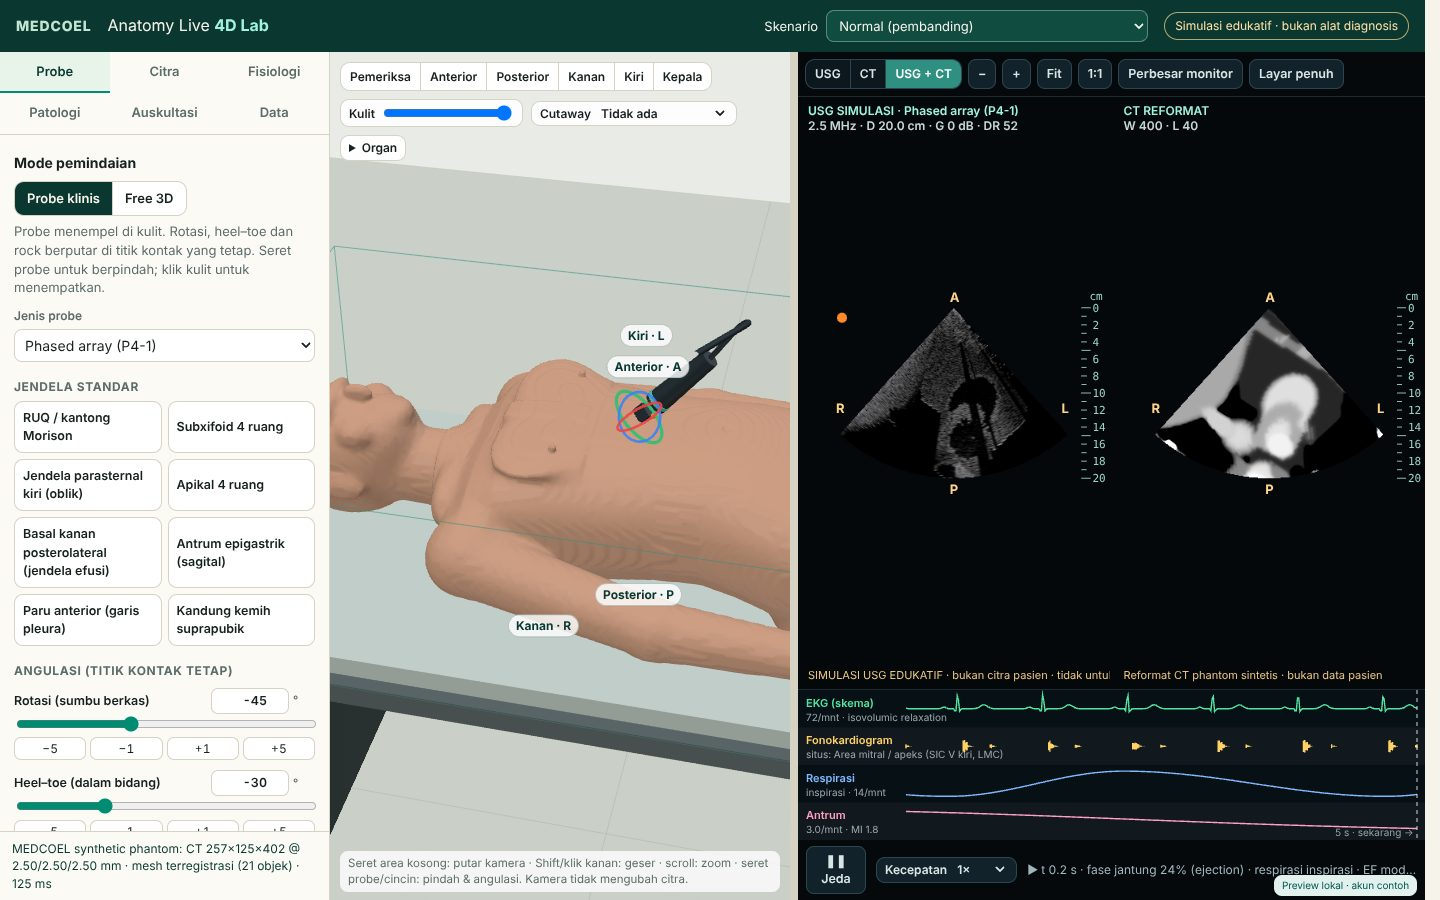
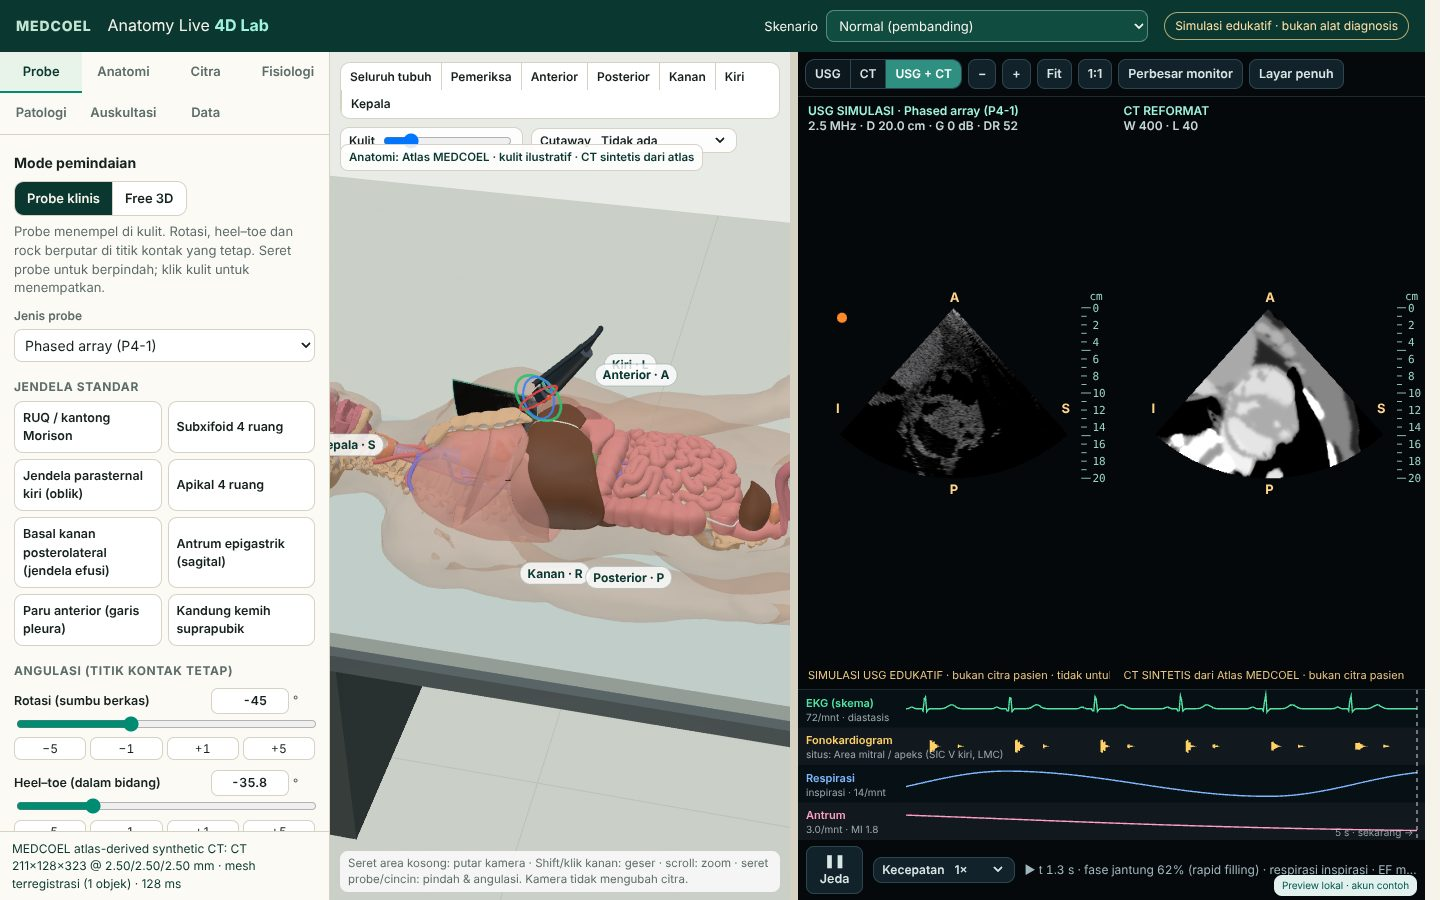
4D Lab atlas: whole-body camera, restore-default view, readout refresh, QA evidence and docs
- "Seluruh tubuh" camera preset framed on the illustrative shell; examiner views widened for the
  whole-body atlas patient.
- "Pulihkan tampilan" restores the default atlas view (omenta/pleura/ducts/coronaries stay hidden);
  Hide becomes a Hide/Show toggle so start-hidden structures can be shown.
- Region readout refreshes immediately when the contact changes.
- Atlas browser suite stabilised (no frame races); 14/14 pass. Phantom suite 14/14, unit 45/45,
  web integration pass (now also waits for the shared atlas layer).
- Evidence: evidence/atlas-01..12 screenshots, atlas-e2e-results.json, label slices and US views.
- PHASE_STATUS, TEST_RESULTS, CLAUDE.md (both) updated.

Claude-Session: https://claude.ai/code/session_01AabQGvUzQb84dEyhBQDFHP

diff --git a/apps/4d-lab/src/app/main.js b/apps/4d-lab/src/app/main.js
@@ -62,12 +62,12 @@ const clock = createClock();
 const audio = new AudioEngine();
 let D = null; // loaded data
 let scene = null, monitor = null, worker = null, geom = null, atlas = null, atlasState = 'none', inEnvelope = null;
-let lastAtlasDeform = 0, atlasDeformMs = 0, atlasMoving = 0, selected = null;
+let lastAtlasDeform = 0, atlasDeformMs = 0, atlasMoving = 0, atlasDeformClockT = -1, selected = null;
 let effusion = null;
 let dirty = true, interacting = false, lastInteraction = 0, workerBusy = false, pending = false, lastFrameInfo = null, frameCount = 0;
 let lastDeform = 0, motionShown = null;
 const stats = { usMs: 0, deformMs: 0, fps: 0 };
-window.__lab = { S, clock, stats, DATASET, physio: { displacement, makeFrame, effectiveParams: () => effectiveParams(), get geom() { return geom; } }, get atlas() { return atlas; }, get atlasState() { return atlasState; }, get atlasStats() { return { deformMs: atlasDeformMs, moving: atlasMoving }; }, audio, get scene() { return scene; }, get monitor() { return monitor; }, get data() { return D; }, get last() { return lastFrameInfo; }, get effusion() { return effusion; } };
+window.__lab = { S, clock, stats, DATASET, physio: { displacement, makeFrame, effectiveParams: () => effectiveParams(), get geom() { return geom; } }, get atlas() { return atlas; }, get atlasState() { return atlasState; }, get atlasStats() { return { deformMs: atlasDeformMs, moving: atlasMoving, clockT: atlasDeformClockT }; }, audio, get scene() { return scene; }, get monitor() { return monitor; }, get data() { return D; }, get last() { return lastFrameInfo; }, get effusion() { return effusion; } };
 
 function markDirty() { dirty = true; }
 function touch() { interacting = true; lastInteraction = performance.now(); markDirty(); }
@@ -124,7 +124,7 @@ async function useDataset({ ctBuf, labBuf, anatomy, reg, files, source, name }) 
     const keep = Object.fromEntries(Object.entries(meshes).map(([k, m]) => [k, { lps: m.lps, indices: m.indices }]));
     // the atlas shell is a whole body (no artificial acquisition caps); the phantom's skin is capped at the CT ends
     scene.setMeshes(keep, { coverage: ct.bounds, capZ: isAtlas ? -Infinity : ct.bounds.lo[2] + 6 });
-    if (isAtlas) { const b = boundsOf(meshes.skin.lps); scene.setTableFor(b.lo, b.hi); }
+    if (isAtlas) { const b = boundsOf(meshes.skin.lps); scene.setTableFor(b.lo, b.hi); scene.setBodyBounds(b.lo, b.hi); scene.setView("examiner", false); }
     prepareMotionMasks();
   } else {
     scene.setMeshes({}, { coverage: ct.bounds, capZ: -1e9 });
@@ -197,7 +197,7 @@ function deformAtlas(f) {
   if (!atlas || !inEnvelope || organsHidden()) return;
   const t0 = performance.now();
   atlasMoving = atlas.deform(displacement, f, inEnvelope);
-  atlasDeformMs = performance.now() - t0;
+  atlasDeformMs = performance.now() - t0; atlasDeformClockT = f.t;
 }
 
 // ------------------------------------------------------------------ poses
@@ -646,7 +646,7 @@ function renderAtlasPanel() {
       select: (name) => { S.atlasQuery = name; if (atlas?.structures.has(name)) { selected = name; atlas.highlight(name); } renderAtlasPanel(); },
       highlight: (name) => { atlas.highlight(atlas.highlighted === name ? null : name); renderAtlasPanel(); },
       isolate: (name) => { atlas.isolate(name); if (name && organsHidden()) setDisplayMode('internal'); renderAtlasPanel(); },
-      hide: (name) => { atlas.setStructureHidden(name, true); renderAtlasPanel(); },
+      hide: (name, hidden = true) => { atlas.setStructureHidden(name, hidden); renderAtlasPanel(); },
       showAll: () => { atlas.showAll(); atlas.highlight(null); selected = null; renderAtlasPanel(); },
       markAnimated: (v) => { atlas.markAnimated = v; atlas.apply(); },
       framesOpen: (v) => { framesOpen = v; },
@@ -794,8 +794,8 @@ async function boot() {
     const probe = document.createElement('canvas');
     if (!(probe.getContext('webgl2') || probe.getContext('webgl'))) throw new Error('WebGL tidak tersedia: tampilan 3D tidak dapat dibuat. Aktifkan akselerasi grafis di browser.');
     scene = new PatientScene($('#viewport'), {
-      onContact: (c) => { if (!contactInCoverage(c)) return; S.contact = c; S.mode = 'clinical'; touch(); },
-      onSkinClick: (c) => { if (S.tool === 'stethoscope') placeSteth(c.point, c.normal, null); else if (S.mode === 'clinical' && contactInCoverage(c)) { S.contact = c; touch(); } },
+      onContact: (c) => { if (!contactInCoverage(c)) return; S.contact = c; S.mode = 'clinical'; touch(); updateReadouts(); },
+      onSkinClick: (c) => { if (S.tool === 'stethoscope') placeSteth(c.point, c.normal, null); else if (S.mode === 'clinical' && contactInCoverage(c)) { S.contact = c; touch(); updateReadouts(); } },
       onPick: (e) => {
         if (S.tool !== 'inspect' || !atlas) return false;
         const hit = scene.pickAtlas(e, atlas); selected = hit?.name || null;

diff --git a/apps/4d-lab/src/app/atlasPanel.js b/apps/4d-lab/src/app/atlasPanel.js
@@ -75,8 +75,8 @@ export function buildAtlasPanel(box, ctx) {
           el('button', { type: 'button', class: 'btn', 'data-testid': 'tool-inspect', 'aria-pressed': String(S.tool === 'inspect'), onclick: () => actions.setTool(S.tool === 'inspect' ? 'probe' : 'inspect') }, S.tool === 'inspect' ? '✓ Pilih di 3D (aktif)' : 'Pilih di 3D'),
           el('button', { type: 'button', class: 'btn', 'data-testid': 'btn-highlight', disabled: !selected || undefined, onclick: () => actions.highlight(selected) }, 'Sorot'),
           el('button', { type: 'button', class: 'btn', 'data-testid': 'btn-isolate', disabled: !selected || undefined, onclick: () => actions.isolate(atlas.isolated === selected ? null : selected) }, atlas.isolated && atlas.isolated === selected ? 'Kembali ke konteks' : 'Isolasi'),
-          el('button', { type: 'button', class: 'btn', 'data-testid': 'btn-hide', disabled: !selected || undefined, onclick: () => actions.hide(selected) }, 'Sembunyikan'),
-          el('button', { type: 'button', class: 'btn', 'data-testid': 'btn-showall', onclick: () => actions.showAll() }, 'Tampilkan semua')));
+          el('button', { type: 'button', class: 'btn', 'data-testid': 'btn-hide', disabled: !selected || undefined, onclick: () => actions.hide(selected, !atlas.structures.get(selected)?.hiddenByUser) }, atlas.structures.get(selected)?.hiddenByUser ? 'Tampilkan' : 'Sembunyikan'),
+          el('button', { type: 'button', class: 'btn', 'data-testid': 'btn-showall', onclick: () => actions.showAll(), title: 'Kembalikan tampilan bawaan (selubung seperti omentum dan pleura tetap tersembunyi; centang sistem untuk menampilkannya)' }, 'Pulihkan tampilan')));
       const sel = selected && atlas.structures.get(selected);
       box.append(el('div', { class: 'readout', 'data-testid': 'structure-info', 'aria-live': 'polite' }, sel
         ? [el('div', { class: 'ro-strong' }, sel.name), el('div', {}, `Sistem: ${ATLAS_GROUPS[sel.group]?.label || sel.group} · file ${sel.system}.glb`), el('div', {}, sel.animated ? 'Bergerak secara prosedural (bukan gerak terukur pasien)' : 'Statis (geometri atlas)'), el('div', {}, sel.hiddenByUser ? 'Disembunyikan' : 'Terlihat')]

diff --git a/apps/4d-lab/src/app/scene3d.js b/apps/4d-lab/src/app/scene3d.js
@@ -371,13 +371,18 @@ export class PatientScene {
   }
 
   // ------------------------------------------------------------------ camera
+  /** Whole-body bounds (LPS) for the 'whole' preset; datasets whose body extends beyond the CT box set this. */
+  setBodyBounds(lo, hi) { this.body = { lo, hi }; }
+
   setView(name, animate = true) {
-    const b = this.bounds || { lo: [-200, -150, -400], hi: [200, 150, 400] };
+    const b = name === 'whole' && this.body ? this.body : this.bounds || { lo: [-200, -150, -400], hi: [200, 150, 400] };
     const T = new THREE.Vector3(...[0, 1, 2].map((i) => (b.lo[i] + b.hi[i]) / 2)).applyMatrix4(LPS_TO_SCENE);
-    T.set(T.x + 60, 0, T.z);
+    T.set(T.x + (name === 'whole' ? 0 : 60), 0, T.z);
+    const k = this.body ? 1.15 : 1; // a whole-body shell needs a little more room than the phantom's CT box
     const views = {
-      examiner: [-380, 1250, -1650], anterior: [0, 2300, -80], posterior: [0, -2100, -100], right: [0, 160, -2250],
-      left: [0, 160, 2250], head: [2200, 380, 0], feet: [-2400, 380, 0],
+      examiner: [-380 * k, 1250 * k, -1650 * k], anterior: [0, 2300 * k, -80], posterior: [0, -2100 * k, -100], right: [0, 160, -2250 * k],
+      left: [0, 160, 2250 * k], head: [2200 * k, 380, 0], feet: [-2400 * k, 380, 0],
+      whole: this.body ? [-300, 1.55 * (this.body.hi[2] - this.body.lo[2]) + 400, -1.2 * (this.body.hi[2] - this.body.lo[2])] : [-380, 1250, -1650],
     };
     const off = views[name] || views.examiner;
     const to = T.clone().add(new THREE.Vector3(...off));

diff --git a/apps/4d-lab/src/app/atlasLayer.js b/apps/4d-lab/src/app/atlasLayer.js
@@ -160,7 +160,8 @@ export class AtlasLayer {
 
   setGroup(group, { visible, opacity } = {}) { const g = this.groups[group]; if (visible !== undefined) g.visible = visible; if (opacity !== undefined) g.opacity = opacity; this.apply(); }
   setStructureHidden(name, hidden) { const s = this.structures.get(name); if (s) { s.hiddenByUser = hidden; this.apply(); } }
-  showAll() { for (const s of this.structures.values()) s.hiddenByUser = false; this.isolated = null; this.apply(); }
+  /** Restore the default view: user hides cleared, start-hidden envelopes (omenta, pleura, ducts, coronaries) hidden again. */
+  showAll() { for (const s of this.structures.values()) s.hiddenByUser = startHidden(s.name); this.isolated = null; this.apply(); }
   isolate(name) { this.isolated = name && this.structures.has(name) ? name : null; this.apply(); }
   highlight(name) { this.highlighted = name && this.structures.has(name) ? name : null; this.apply(); }
   setVisible(v) { this.visible = v; this.apply(); }

diff --git a/apps/4d-lab/index.html b/apps/4d-lab/index.html
@@ -41,6 +41,7 @@
     <div id="viewport" class="viewport"></div>
     <div class="view-toolbar" role="toolbar" aria-label="Kamera dan tampilan">
       <div class="seg small" role="group" aria-label="Arah pandang">
+        <button data-view="whole" data-testid="cam-whole" class="atlas-only">Seluruh tubuh</button>
         <button data-view="examiner" data-testid="cam-examiner">Pemeriksa</button>
         <button data-view="anterior" data-testid="cam-anterior">Anterior</button>
         <button data-view="posterior" data-testid="cam-posterior">Posterior</button>

diff --git a/apps/4d-lab/PHASE_STATUS.md b/apps/4d-lab/PHASE_STATUS.md
@@ -1,6 +1,6 @@
 # Phase status — MEDCOEL Anatomy Live 4D Lab
 
-_Last updated: 2026-11-07 (branch `claude/confident-faraday-e9id72`, mirrored to `feature/medcoel-4d-lab`)._
+_Last updated: 2026-11-08 (branch `claude/vigilant-cerf-jjc6fj`, based on the PR #133 merge `6c4f696`): Anatomy Atlas integration added._
 Evidence files are in `evidence/`; test commands are listed in `TEST_RESULTS.md`.
 
 | Phase | Status | Gate | Evidence |
@@ -10,6 +10,26 @@ Evidence files are in `evidence/`; test commands are listed in `TEST_RESULTS.md`
 | 3 Ultrasound engine | **Complete** | US output responds to probe orientation and tissue parameters via executable simulation — **passed** | unit tests 11–19; e2e "ultrasound responds to tissue parameters…"; `evidence/us-*.png` |
 | 4 Organ motion | **Complete** | Each system has a working, controllable motion demo — **passed** (cardiac, respiratory, gastric antral peristalsis) | unit tests 20–26; e2e "physiology…"; `evidence/07-cutaway-motion.jpg` |
 | 5 Pathology + auscultation | **Complete (educational scope)** | At least one integrated normal-vs-pathological scenario and a functional auscultation workflow — **passed** (3 scenarios; stethoscope, synthesised S1/S2/S3, breath and bowel sounds, PCG strip) | unit tests 27–33; e2e "pathology…", "auscultation…"; `evidence/08, 09, 10` |
+
+## Atlas integration (2026-11-08) — status by element
+| Element | Status | Evidence / note |
+|---|---|---|
+| Atlas audit (inventory, units, axes, licences, gaps, memory) | **Done** | `ATLAS_INTEGRATION_AUDIT.md` |
+| Shared atlas models at runtime from `/anatomy/viewer/` (no copies, decoder not bundled) | **Implemented, tested** | atlas e2e "shared atlas models load"; `dist/assets` has no Draco files |
+| Selective loading (4 systems by default, 3 on demand, subset kept per system, unload API) | **Implemented, tested** | 484 structures / 1.79 M triangles kept of 10.4 M |
+| Atlas-derived synthetic CT + labels in an exact atlas→LPS frame | **Implemented, tested** | `test/atlas-integration.test.mjs` (frame, L/R, mesh↔label agreement ≥ 90 %); `evidence/atlas-label-slices.png` |
+| Skin surface | **Approximate (illustrative)** | atlas envelope + assumed fat/skin; closed; 99.6 % on the CT body boundary; labelled "kulit ilustratif" |
+| Atlas ↔ procedural phantom | **Explicitly not registered** | rigid-fit residual RMS 37.5 mm, max 61 mm; atlas never shown on the phantom |
+| Atlas ↔ real CT | **Not possible with available data** | no authorised acquired CT; atlas hidden for local CT |
+| Display modes, systems/transparency, search/highlight/isolate/hide, pick in 3D, legend, frames panel | **Implemented, tested (Chromium)** | atlas e2e; `evidence/atlas-*.jpg` |
+| Independent probe (clinical + free 3D) on the atlas body; camera never changes the scan | **Preserved, tested** | atlas e2e steps "fixed contact point", "camera rotation", "free 3D" |
+| Phases 3–5 on the atlas dataset (US, CT, motion, pathology, auscultation) | **Working, tested** | atlas unit tests 9–12; atlas e2e "dynamic heart", "pathology + auscultation" |
+| Procedural motion of atlas meshes | **Approximate (procedural)** | same displacement field as imaging (checked < 0.01 mm); heart, lungs, diaphragm, liver, stomach, spleen, kidneys, great vessels; coronaries static/hidden |
+| Phantom dataset (Phases 1–5 regression) | **Preserved** | phantom e2e 14/14; unit tests 33/33 unchanged |
+| Apical 4-chamber window on the atlas body | **Limited** | lingula/anterior lung margins cover the apex in this atlas body; HFrEF uses the clearest cardiac window (subxiphoid) |
+| Lateral chest wall | **Limited** | atlas arms are adducted against the chest; mid-axillary sites sit just below the arm |
+| Safari / 8 GB Apple Silicon | **Not tested** | not available to this session |
+| Human anatomical/clinical review of the atlas-derived dataset | **Open** | owner / clinician |
 
 ## What exists now
 - `apps/4d-lab`: integrated workstation with a 3D patient on an exam table (CT-derived skin and 20 organ meshes with verified registration), clinical and free 3D probe modes, rotation/translation gizmos, exact numeric controls, CT/US/split monitor with zoom, pan, fit, 1:1, expand and fullscreen, CT window/level, physiology playback, pathology scenarios and auscultation.
@@ -22,6 +42,11 @@ Evidence files are in `evidence/`; test commands are listed in `TEST_RESULTS.md`
 4. **Language**: UI labels are Indonesian. Scenario explanations and findings are English for accuracy; translate them through MEDCOEL's normal i18n review.
 5. **Physiology is procedural** (no licensed time-resolved data). It is labelled as an educational approximation everywhere.
 6. Phantom limitations: 2.5 mm voxels, simplified organ shapes, no vessels inside lung or liver, no small anatomy. The body touches the CT table at the buttocks, so automatic thresholding keeps ~0.2% of table voxels; use the corrected-mask route for real CT.
+
+## Resume here (atlas)
+- Owner review on the Mac (Safari): the atlas dataset is the default at `/anatomy/live`; the procedural phantom is `?dataset=phantom`.
+- If the shell or labels need changes: edit `pipeline/atlas/build_atlas_dataset.mjs`, run `npm run atlas:dataset`, `npm run atlas:evidence`, `npm test`, then both browser suites.
+- Commercial use: replace the NC kidney, rebuild (see `ASSET_LICENSE_REGISTRY.md`).
 
 ## Resume here
 - Deploy to staging only after approval: see `INTEGRATION.md`.

diff --git a/apps/4d-lab/TEST_RESULTS.md b/apps/4d-lab/TEST_RESULTS.md
@@ -1,5 +1,37 @@
 # Test results — MEDCOEL Anatomy Live 4D Lab
 
+## Atlas integration run — 2026-11-08
+Same container class (Linux x86-64, Node 22.23, Chromium via Playwright with SwiftShader software WebGL).
+**Safari and Apple hardware were not tested.**
+
+```bash
+cd apps/4d-lab
+npm ci
+npm run atlas:dataset          # rebuild public/data/atlas from apps/anatomy/public/models (~70 s, deterministic)
+npm test                       # 45 node:test tests (33 phase tests + 12 atlas tests)
+npm run build
+npm run test:e2e               # 14 browser tests, procedural phantom (?dataset=phantom) — Phases 1-5 regression
+npm run test:e2e:atlas         # 14 browser tests, atlas dataset (default); add -- --shots for evidence/atlas-*.jpg
+node test/e2e/integration.mjs  # /anatomy/live inside the MEDCOEL web app, now also waits for the shared atlas layer
+```
+
+| Suite | Result |
+|---|---|
+| Unit/integration (`npm test`) | 45/45 pass (33 existing unchanged + 12 atlas: frame/axes, left-right, registration + tamper, closed skin on the CT boundary, atlas mesh ↔ label agreement, documented non-registration to the phantom, standard windows aim at their organ, auscultation sites on ICS, warp exactness + EF on the atlas LV, diaphragm map, effusion, US blood vs myocardium) |
+| Browser, phantom (`run-e2e.mjs`) | 14/14 pass |
+| Browser, atlas (`atlas-e2e.mjs`) | 14/14 pass (`evidence/atlas-e2e-results.json`); evidence `evidence/atlas-01…12-*.jpg` |
+| MEDCOEL web integration (`integration.mjs`) | pass: `/anatomy/live` frames the lab and the shared atlas layer reaches "ready" |
+| Staging script test | 1/1 pass; `validateLab(dist)` reports datasets phantom + atlas |
+
+### Atlas measurements
+- Atlas default set: 484 structures, 1.79 M triangles, 0.93 M vertices kept (of 2,827 / 10.4 M). Decode + bake: visceral 2.3–2.9 s, cardiovascular 0.9–1.2 s, skeletal 0.2–0.6 s, lymphatic < 0.3 s; atlas ready 4.6–6.1 s after navigation (software WebGL).
+- Atlas mesh motion: ≈ 100 k animated vertices, 46–60 ms per update under SwiftShader (scheduled adaptively); vertex displacement equals the imaging field to < 0.01 mm.
+- JS heap after the full atlas session: 73 MiB.
+- Skin shell: 206,580 triangles, closed, 99.6 % of tested vertices with air outside / tissue inside at ±5 mm.
+- Atlas vs procedural phantom (not registered): rigid-fit residual RMS 37.5 mm, max 61 mm.
+- Heart blood pools from the atlas chambers: LV 77, RV 92, LA 67, RA 93 mL.
+
+## Phase 1–5 run — 2026-11-07
 Executed 2026-11-07 in the cloud development container (Linux x86-64, Node 22.23, Python 3.13 with numpy/scipy/VTK 9.7,
 Chromium via Playwright with SwiftShader software WebGL). **Safari and Apple hardware were not tested.**
 
@@ -39,6 +71,10 @@ CI (`.github/workflows/ci.yml`) runs the unit tests, the staging test and the bu
 - Chromium JS heap after the full e2e session: **73 MiB**. The phantom download is about 6 MB (CT 2.1 MB, labels 0.26 MB, meshes 3.7 MB).
 
 ## Manual checklist (owner, Safari on the target Mac): not yet done
+Atlas additions: (a) Anatomi tab: the organs are the Atlas MEDCOEL models (compare with `/anatomy/viewer/`);
+(b) switch the five display modes; (c) isolate "Left ventricle" and return; (d) pick an organ with "Pilih di 3D";
+(e) open "Sistem koordinat & registrasi" and check it states the atlas is not registered to the phantom;
+(f) watch memory with all on-demand systems (muscles, nerves, joints) loaded.
 1. Open `/anatomy/live`. The patient is recognisable and the head, chest, abdomen and arms are visible.
 2. Click the skin at front, side and back. The probe lands where clicked and the region readout matches the location.
 3. Change rotate / heel-toe / rock. The probe pivots on the same point and the image changes.

diff --git a/apps/4d-lab/CLAUDE.md b/apps/4d-lab/CLAUDE.md
@@ -14,12 +14,17 @@ base `/anatomy/4d-lab/` and embedded by the main web app at `/anatomy/live`
 - `src/app/`   UI: three.js scene, gizmos, monitor, panels (browser only)
 - `pipeline/`  Python (numpy/scipy/VTK) phantom generator + CT->mesh reconstruction (also for local CTACardio)
 - `public/data/phantom/` generated synthetic data (original, committed). Regenerate: `npm run phantom`
+- `public/data/atlas/` DEFAULT dataset generated from the MEDCOEL Anatomy Atlas meshes (`npm run atlas:dataset`,
+  `pipeline/atlas/`). CC BY-NC-SA 4.0 derivative: keep the attributions. See `ATLAS_INTEGRATION_AUDIT.md`.
+- `src/app/atlasLayer.js` loads the atlas GLBs from `/anatomy/viewer/` at runtime. Never copy atlas models into this app.
 - `test/*.test.mjs` node:test unit/integration; `test/e2e/` Playwright browser tests
 - `legacy/v0.9/` the previous prototype, kept for provenance (its own tests: `npm run test:legacy`)
 
 ## Rules
 - Coordinates are patient LPS millimetres everywhere in `src/core` and `src/sim`. The three.js scene
-  maps LPS -> scene with ONE matrix (`src/app/frames.js`). Never add visual offsets.
+  maps LPS -> scene with ONE matrix (`LPS_TO_SCENE` in `src/app/scene3d.js`). Never add visual offsets.
+- Atlas -> LPS is the explicit `anatomy.json` `atlasFrame.atlasToLPS` matrix. Never overlay the atlas on a dataset it was
+  not generated from (the procedural phantom or a local CT): that would fabricate image-anatomy correspondence.
 - Camera state must never feed imaging. Imaging depends only on probe/plane state + physiology time.
 - Mesh deformation and image sampling must call the same `physiology.displacement` function.
 - Never commit CTACardio, TotalSegmentator licence keys/weights, EchoNet, IT'IS ViP data. Put local data in `local-data/` (gitignored).

diff --git a/CLAUDE.md b/CLAUDE.md
@@ -3,5 +3,6 @@
 - Default/integration branch: `claude/focused-wozniak-1ayrxa` (contains Anatomy Atlas, PocketBase, Hermes). `main` is a separate line. Never push to either without explicit approval.
 - Apps: `apps/web` (React/Vite site), `apps/pocketbase`, `apps/hermes-agent`, `apps/anatomy` (Atlas viewer at `/anatomy/viewer/`), `apps/4d-lab` (Anatomy Live 4D Lab at `/anatomy/4d-lab/`, framed by `/anatomy/live`).
 - Working on the 4D Lab: read `apps/4d-lab/CLAUDE.md` and `apps/4d-lab/PHASE_STATUS.md` first.
+- The 4D Lab loads the Atlas models at runtime from `/anatomy/viewer/models/`, `/anatomy/viewer/draco/` and `/anatomy/viewer/data/atlas-catalog.json`. Keep those paths stable (or update `apps/4d-lab/src/app/atlasLayer.js`); after changing atlas GLBs, rebuild the lab's atlas-derived dataset (`npm run atlas:dataset --prefix apps/4d-lab`).
 - Tests: `npm test` (web + pocketbase format), `npm run test:anatomy-integration`, `npm run test:4d-lab`. UI language is Indonesian.
 - Never commit secrets, restricted medical datasets (e.g. CTACardio), licence keys or model weights.

diff --git a/apps/4d-lab/ATLAS_INTEGRATION_AUDIT.md b/apps/4d-lab/ATLAS_INTEGRATION_AUDIT.md
@@ -109,7 +109,7 @@ so atlas ↔ real-CT registration cannot be validated and is not attempted.
    image, and is labelled as such everywhere ("CT SINTETIS dari Atlas MEDCOEL").
 2. **Illustrative skin shell** (option 3 of the brief, but derived rather than landmark-aligned): the closed atlas
    musculoskeletal envelope + 8 mm (trunk/head/legs) or 5 mm (arms) of assumed fat and skin. Closed surface
-   (0 boundary edges), 206,580 triangles, 99.6 % of tested vertices sit on the CT body boundary (air outside, tissue
+   (0 boundary edges; 30 non-manifold edges from surface-net ambiguities, harmless for picking), 206,580 triangles, 99.6 % of tested vertices sit on the CT body boundary (air outside, tissue
    inside at ±5 mm). No licensed skin mesh compatible with the atlas exists in the repository (option 1) and no
    authorised imaging of this body exists (option 2).
 3. **Shared atlas layer at runtime** (`src/app/atlasLayer.js`): the lab loads `/anatomy/viewer/models/*.glb`,
